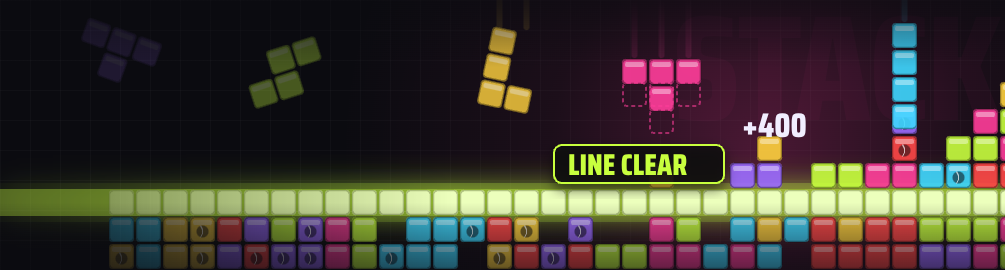
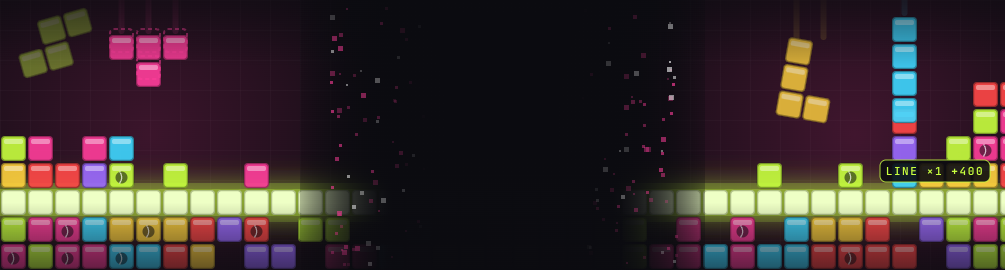
Refresh locker-room game backgrounds at full opacity.

diff --git a/src/components/site/Arcade.tsx b/src/components/site/Arcade.tsx
@@ -20,7 +20,7 @@ const phaseText: Record<Phase, string> = {
 };
 
 const phaseWash: Record<Phase, string> = {
-  idle: "bg-canvas/68",
+  idle: "bg-transparent",
   wait: "bg-[#2a0f22]/86",
   go: "bg-lime/90",
   foul: "bg-[#3a1206]/86",
@@ -29,15 +29,13 @@ const phaseWash: Record<Phase, string> = {
 
 export function GameStage({
   src,
-  wash = "bg-canvas/68",
-  imageOpacity = 0.48,
+  wash = "bg-transparent",
   className = "",
   contentClassName = "",
   children,
 }: {
   src: string;
   wash?: string;
-  imageOpacity?: number;
   className?: string;
   contentClassName?: string;
   children: ReactNode;
@@ -49,7 +47,7 @@ export function GameStage({
       <span
         aria-hidden
         className="pointer-events-none absolute inset-0 bg-cover bg-center"
-        style={{ backgroundImage: `url(${src})`, opacity: imageOpacity }}
+        style={{ backgroundImage: `url(${src})` }}
       />
       <span aria-hidden className={`pointer-events-none absolute inset-0 ${wash}`} />
       <span
@@ -180,7 +178,7 @@ export function ReactionGame() {
       >
         <span
           aria-hidden
-          className="pointer-events-none absolute inset-0 bg-cover bg-center opacity-[0.48]"
+          className="pointer-events-none absolute inset-0 bg-cover bg-center"
           style={{ backgroundImage: "url(/images/games/reaction.png)" }}
         />
         <span aria-hidden className={`pointer-events-none absolute inset-0 ${phaseWash[phase]}`} />
@@ -307,10 +305,9 @@ export function TimingGame() {
         >
           <span
             aria-hidden
-            className="pointer-events-none absolute inset-0 bg-cover bg-center opacity-[0.48]"
+            className="pointer-events-none absolute inset-0 bg-cover bg-center"
             style={{ backgroundImage: "url(/images/games/timing.png)" }}
           />
-          <span aria-hidden className="pointer-events-none absolute inset-0 bg-canvas/68" />
           <span className="relative z-[1] flex w-full flex-1 flex-col items-center justify-center gap-3 px-[22px] py-[22px] text-center">
             <span className="font-display text-[clamp(38px,7vw,64px)] leading-[0.88] font-black uppercase">
               Tap to start
@@ -379,11 +376,7 @@ export function RapidGame({ onPlay }: { onPlay: () => void }) {
 
 export function ScamAlertLaunch({ onPlay }: { onPlay: () => void }) {
   return (
-    <GameStage
-      src="/images/games/cricket-iq.png"
-      imageOpacity={0.62}
-      contentClassName="gap-4 px-6 py-8"
-    >
+    <GameStage src="/images/games/cricket-iq.png" contentClassName="gap-4 px-6 py-8">
       <span className="font-display text-[clamp(38px,7vw,64px)] leading-[0.88] font-black uppercase">
         Cricket IQ
       </span>
